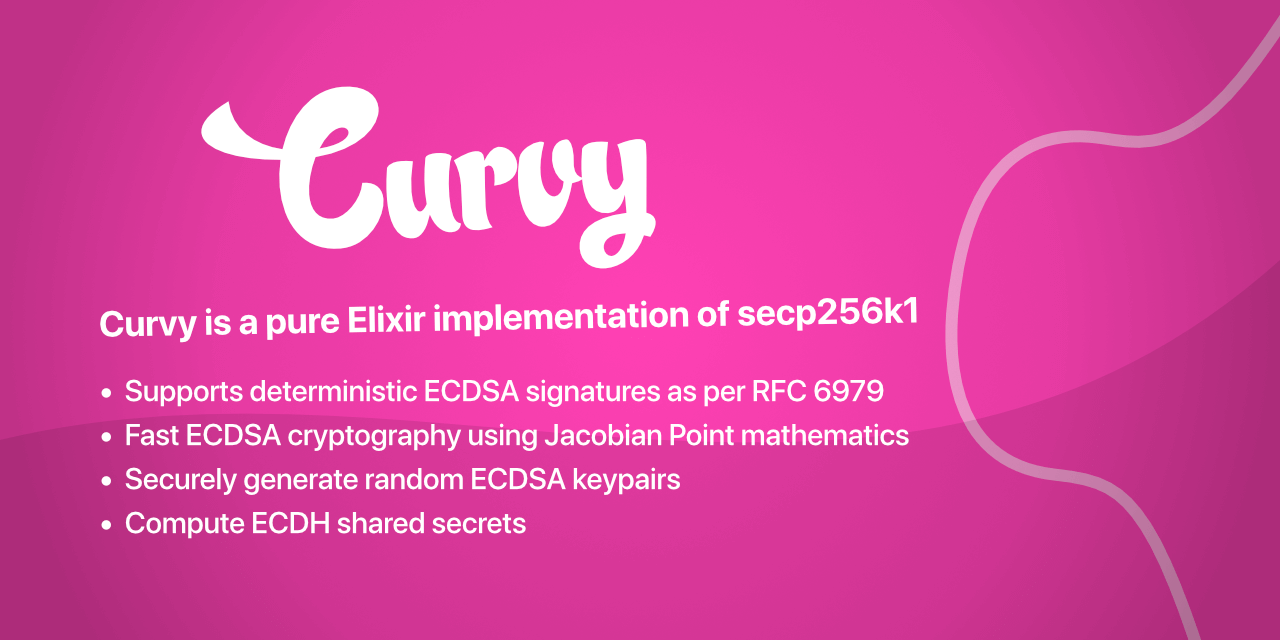
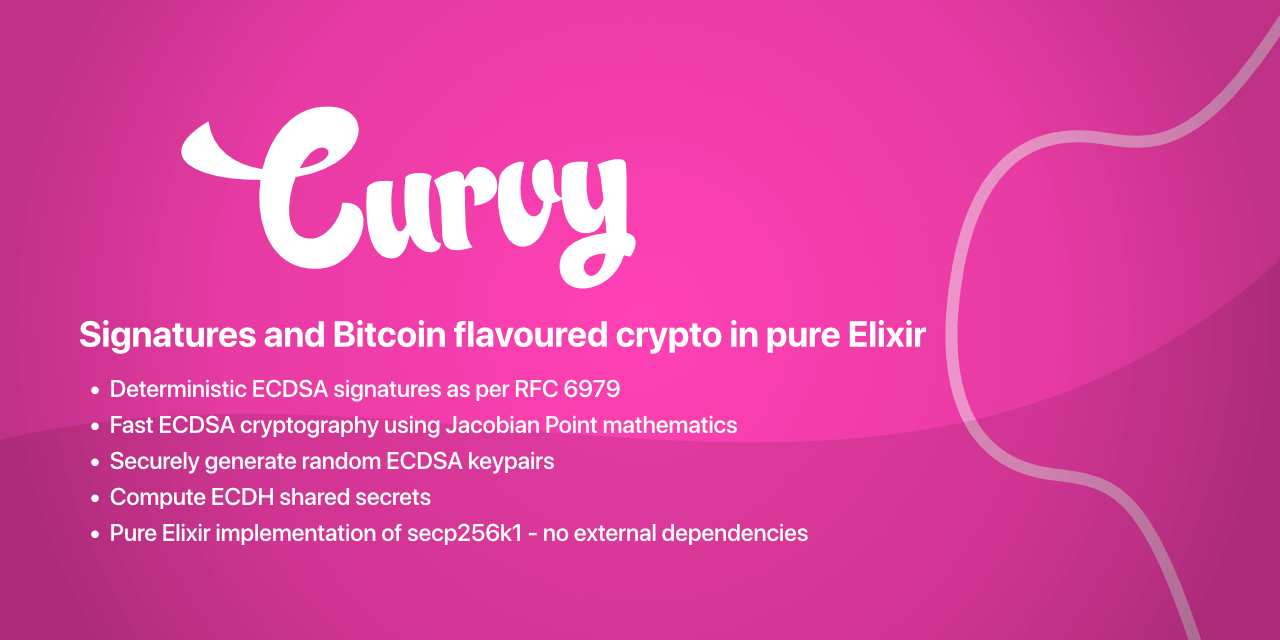
Update readme and poster

Changed region(s): [[0.0625, 0.125, 0.7188, 0.5625], [0.0625, 0.5938, 0.7188, 0.8438]]

diff --git a/README.md b/README.md
@@ -6,9 +6,7 @@
 ![License](https://img.shields.io/github/license/libitx/curvy?color=informational)
 ![Build Status](https://img.shields.io/github/workflow/status/libitx/curvy/Elixir%20CI)
 
-Curvy is a pure Elixir implementation of `secp256k1`, an elliptic curve that can be used in signature schemes, asymmetric encryption and ECDH shared secrets.
-
-`secp256k1` is used in Bitcoin, and Curvy exposes a handful of functions to help with common Bitcoin app use cases.
+Signatures and Bitcoin flavoured crypto written in pure Elixir. Curvy is an implementation of `secp256k1`, an elliptic curve that can be used in signature schemes, asymmetric encryption and ECDH shared secrets.
 
 ## Highlights
 
@@ -107,9 +105,9 @@ For more examples, refer to the [full documentation](https://hexdocs.pm/curvy).
 
 ## Disclaimer
 
-The are many published warnings that you should never try to implement well-known (and known to be secure) crypto algorithms yourself. Well guess what, that's exactly what I've done here. I am **not** a cryptographer nor a mathmetician. If you're after the most performant and battle tested Bitcoin library, use the [`libsecp256k1`](https://hex.pm/packages/libsecp256k1) NIF bindings.
+The are many warnings that you should never try to implement well-known (and known to be secure) crypto algorithms yourself. Well guess what, that's exactly what I've done here. I am **not** a cryptographer nor a mathmetician. Proceed at your own risk. If you're after the most performant and battle tested Bitcoin library, use the [`libsecp256k1`](https://hex.pm/packages/libsecp256k1) NIF bindings.
 
-This library offers a simpler and smaller interface for common functionality. Being writting purely in Elixir without any dependencies, it is a lighter-weight option without the compilation complexities the NIF bindings may bring.
+This library offers a simpler and smaller interface for common functionality. Being writting purely in Elixir without any dependencies, it is a lighter-weight option without the compilation complexities NIF bindings may bring.
 
 I am grateful to the authors of the following open source libraries I have referred to extensively in creating this library:
 
